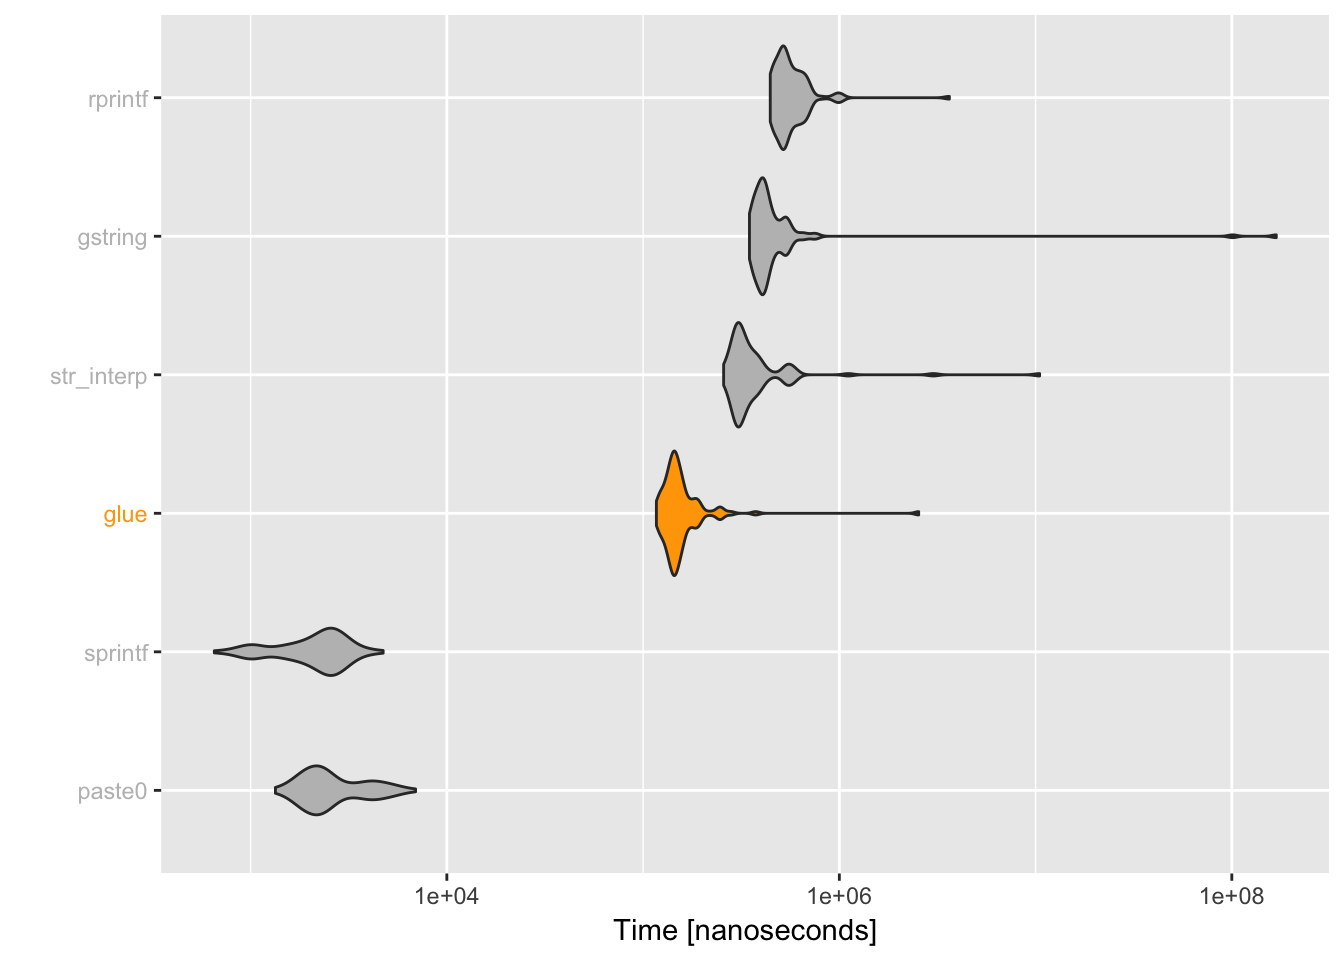
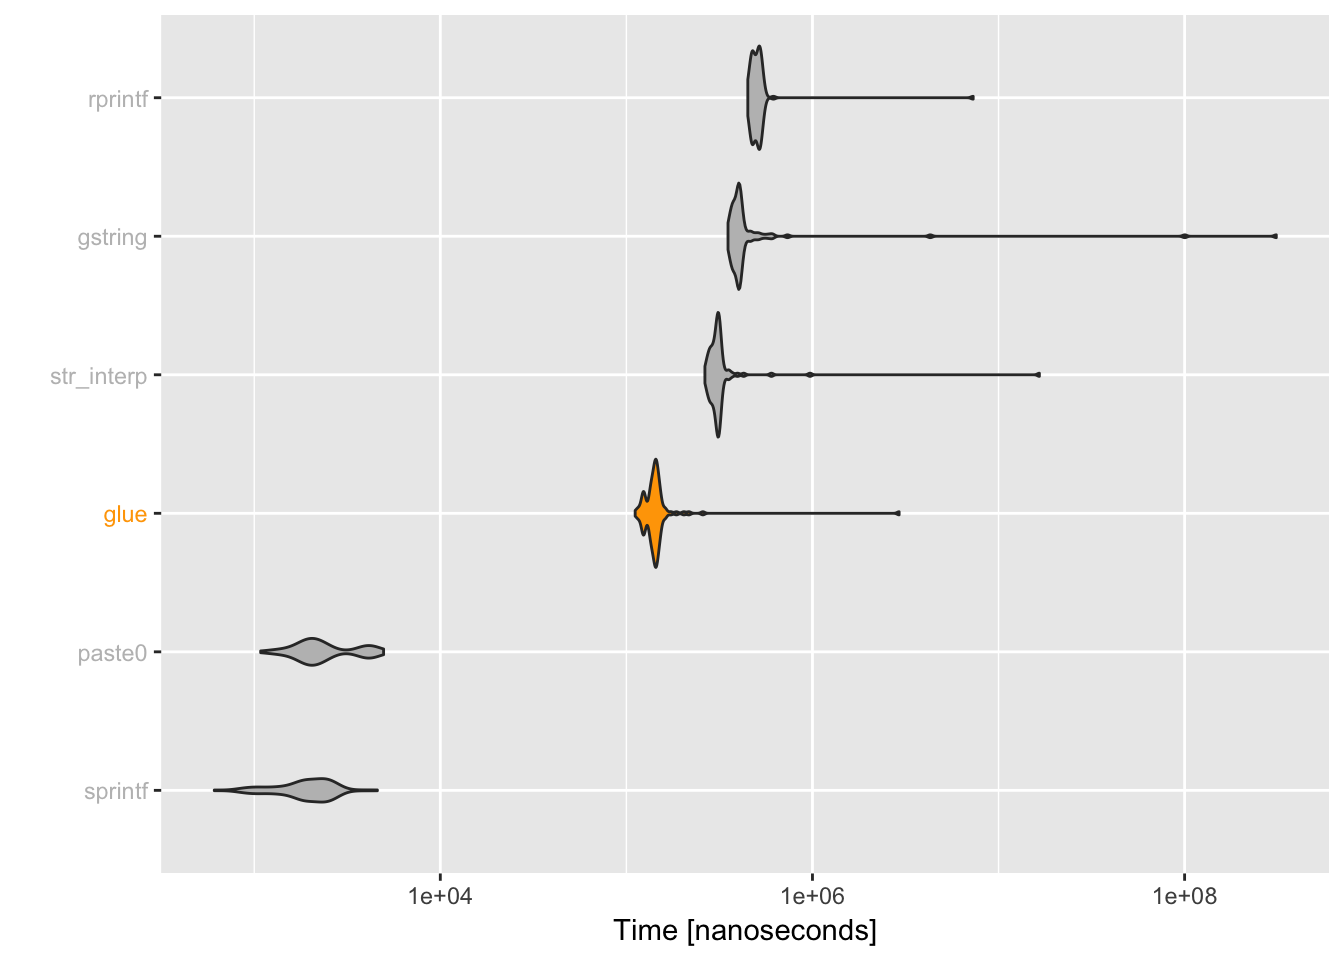
Re-render speed vignette

diff --git a/articles/speed.html b/articles/speed.html
@@ -128,8 +128,17 @@
 <a class="sourceLine" id="cb1-11" data-line-number="11">)</a>
 <a class="sourceLine" id="cb1-12" data-line-number="12"></a>
 <a class="sourceLine" id="cb1-13" data-line-number="13"><span class="kw">print</span>(<span class="dt">unit =</span> <span class="st">"eps"</span>, <span class="dt">order =</span> <span class="st">"median"</span>, <span class="dt">signif =</span> <span class="dv">4</span>, simple)</a>
-<a class="sourceLine" id="cb1-14" data-line-number="14"></a>
-<a class="sourceLine" id="cb1-15" data-line-number="15"><span class="kw">plot_comparison</span>(simple)</a></code></pre></div>
+<a class="sourceLine" id="cb1-14" data-line-number="14"><span class="co">#&gt; Unit: evaluations per second</span></a>
+<a class="sourceLine" id="cb1-15" data-line-number="15"><span class="co">#&gt;        expr       min     lq       mean median     uq     max neval cld</span></a>
+<a class="sourceLine" id="cb1-16" data-line-number="16"><span class="co">#&gt;     rprintf 1.368e+02   1909   1988.042   1993   2104    2225   100 a  </span></a>
+<a class="sourceLine" id="cb1-17" data-line-number="17"><span class="co">#&gt;     gstring 3.216e+00   2410   2398.853   2498   2644    2844   100 a  </span></a>
+<a class="sourceLine" id="cb1-18" data-line-number="18"><span class="co">#&gt;  str_interp 6.033e+01   3150   3208.290   3243   3429    3784   100 a  </span></a>
+<a class="sourceLine" id="cb1-19" data-line-number="19"><span class="co">#&gt;        glue 3.421e+02   6813   7051.048   7041   7442    8968   100 a  </span></a>
+<a class="sourceLine" id="cb1-20" data-line-number="20"><span class="co">#&gt;      paste0 2.017e+05 321200 451723.788 467000 539400  923400   100  b </span></a>
+<a class="sourceLine" id="cb1-21" data-line-number="21"><span class="co">#&gt;     sprintf 2.179e+05 412500 579674.740 512600 640200 1639000   100   c</span></a>
+<a class="sourceLine" id="cb1-22" data-line-number="22"></a>
+<a class="sourceLine" id="cb1-23" data-line-number="23"><span class="kw">plot_comparison</span>(simple)</a></code></pre></div>
+<p><img src="speed_files/figure-html/unnamed-chunk-1-1.png" width="672"></p>
 <p>While <code>glue()</code> is slower than <code>paste0</code>,<code>sprintf()</code> it is twice as fast as <code>str_interp()</code> and <code>gstring()</code>, and on par with <code>rprintf()</code>.</p>
 <p><code>paste0()</code>, <code>sprintf()</code> don’t do string interpolation and will likely always be significantly faster than glue, glue was never meant to be a direct replacement for them.</p>
 <p><code>rprintf()</code> does only variable interpolation, not arbitrary expressions, which was one of the explicit goals of writing glue.</p>
@@ -139,7 +148,7 @@
 <div id="vectorized-performance" class="section level2">
 <h2 class="hasAnchor">
 <a href="#vectorized-performance" class="anchor"></a>Vectorized performance</h2>
-<p>Taking advantage of glue’s vectorization is the best way to avoid performance. For instance the vectorized form of the previous benchmark is able to generate 100,000 strings in only 22ms with performance much closer to that of <code>paste0()</code> and <code>sprintf()</code>. NB. <code>str_interp()</code> does not support vectorization, so were removed.</p>
+<p>Taking advantage of glue’s vectorization is the best way to avoid performance. For instance the vectorized form of the previous benchmark is able to generate 100,000 strings in only 22ms with performance much closer to that of <code>paste0()</code> and <code>sprintf()</code>. NB. <code>str_interp()</code> does not support vectorization, so was removed.</p>
 <div class="sourceCode" id="cb2"><pre class="sourceCode r"><code class="sourceCode r"><a class="sourceLine" id="cb2-1" data-line-number="1">bar &lt;-<span class="st"> </span><span class="kw">rep</span>(<span class="st">"bar"</span>, <span class="fl">1e5</span>)</a>
 <a class="sourceLine" id="cb2-2" data-line-number="2"></a>
 <a class="sourceLine" id="cb2-3" data-line-number="3">vectorized &lt;-</a>
@@ -152,8 +161,16 @@
 <a class="sourceLine" id="cb2-10" data-line-number="10">)</a>
 <a class="sourceLine" id="cb2-11" data-line-number="11"></a>
 <a class="sourceLine" id="cb2-12" data-line-number="12"><span class="kw">print</span>(<span class="dt">unit =</span> <span class="st">"ms"</span>, <span class="dt">order =</span> <span class="st">"median"</span>, <span class="dt">signif =</span> <span class="dv">4</span>, vectorized)</a>
-<a class="sourceLine" id="cb2-13" data-line-number="13"></a>
-<a class="sourceLine" id="cb2-14" data-line-number="14"><span class="kw">plot_comparison</span>(vectorized, <span class="dt">log =</span> <span class="ot">FALSE</span>)</a></code></pre></div>
+<a class="sourceLine" id="cb2-13" data-line-number="13"><span class="co">#&gt; Unit: milliseconds</span></a>
+<a class="sourceLine" id="cb2-14" data-line-number="14"><span class="co">#&gt;     expr   min    lq     mean median    uq    max neval  cld</span></a>
+<a class="sourceLine" id="cb2-15" data-line-number="15"><span class="co">#&gt;   paste0 12.63 13.16 14.02252  13.46 14.04  24.50   100 a   </span></a>
+<a class="sourceLine" id="cb2-16" data-line-number="16"><span class="co">#&gt;     glue 14.02 14.67 16.62991  15.51 18.68  25.26   100  b  </span></a>
+<a class="sourceLine" id="cb2-17" data-line-number="17"><span class="co">#&gt;  sprintf 15.94 16.25 17.01883  16.39 16.77  21.73   100  b  </span></a>
+<a class="sourceLine" id="cb2-18" data-line-number="18"><span class="co">#&gt;  gstring 26.07 26.64 28.62167  27.24 30.85  38.65   100   c </span></a>
+<a class="sourceLine" id="cb2-19" data-line-number="19"><span class="co">#&gt;  rprintf 59.16 60.69 65.15654  63.72 66.27 183.10   100    d</span></a>
+<a class="sourceLine" id="cb2-20" data-line-number="20"></a>
+<a class="sourceLine" id="cb2-21" data-line-number="21"><span class="kw">plot_comparison</span>(vectorized, <span class="dt">log =</span> <span class="ot">FALSE</span>)</a></code></pre></div>
+<p><img src="speed_files/figure-html/unnamed-chunk-2-1.png" width="672"></p>
 </div>
 <div class="footnotes">
 <hr>

diff --git a/articles/transformers.html b/articles/transformers.html
@@ -130,20 +130,23 @@
 <a href="#shell-quoting-transformer" class="anchor"></a>Shell quoting transformer</h3>
 <p>A transformer which automatically quotes variables for use in shell commands, e.g. via <code>system()</code> or <code>system2()</code>.</p>
 <div class="sourceCode" id="cb2"><pre class="sourceCode r"><code class="sourceCode r"><a class="sourceLine" id="cb2-1" data-line-number="1">shell_transformer &lt;-<span class="st"> </span><span class="cf">function</span>(<span class="dt">type =</span> <span class="kw">c</span>(<span class="st">"sh"</span>, <span class="st">"csh"</span>, <span class="st">"cmd"</span>, <span class="st">"cmd2"</span>)) {</a>
-<a class="sourceLine" id="cb2-2" data-line-number="2">  <span class="cf">function</span>(code, envir) <span class="kw">shQuote</span>(glue<span class="op">::</span><span class="kw"><a href="http://www.rdocumentation.org/packages/glue/topics/evaluate">evaluate</a></span>(code, envir), type)</a>
-<a class="sourceLine" id="cb2-3" data-line-number="3">}</a>
-<a class="sourceLine" id="cb2-4" data-line-number="4"></a>
-<a class="sourceLine" id="cb2-5" data-line-number="5">glue_sh &lt;-<span class="st"> </span><span class="cf">function</span>(..., <span class="dt">.envir =</span> <span class="kw">parent.frame</span>(), <span class="dt">.type =</span> <span class="kw">c</span>(<span class="st">"sh"</span>, <span class="st">"csh"</span>, <span class="st">"cmd"</span>, <span class="st">"cmd2"</span>)) {</a>
-<a class="sourceLine" id="cb2-6" data-line-number="6">  <span class="kw">glue</span>(..., <span class="dt">.envir =</span> .envir, <span class="dt">.transformer =</span> <span class="kw">shell_transformer</span>(.type))</a>
-<a class="sourceLine" id="cb2-7" data-line-number="7">}</a>
-<a class="sourceLine" id="cb2-8" data-line-number="8"></a>
-<a class="sourceLine" id="cb2-9" data-line-number="9">filename &lt;-<span class="st"> "test"</span></a>
-<a class="sourceLine" id="cb2-10" data-line-number="10"><span class="kw">writeLines</span>(<span class="dt">con =</span> filename, <span class="st">"hello!"</span>)</a>
+<a class="sourceLine" id="cb2-2" data-line-number="2">  type &lt;-<span class="st"> </span><span class="kw">match.arg</span>(type)</a>
+<a class="sourceLine" id="cb2-3" data-line-number="3">  <span class="cf">function</span>(code, envir) <span class="kw">shQuote</span>(glue<span class="op">::</span><span class="kw"><a href="http://www.rdocumentation.org/packages/glue/topics/evaluate">evaluate</a></span>(code, envir), type)</a>
+<a class="sourceLine" id="cb2-4" data-line-number="4">}</a>
+<a class="sourceLine" id="cb2-5" data-line-number="5"></a>
+<a class="sourceLine" id="cb2-6" data-line-number="6">glue_sh &lt;-<span class="st"> </span><span class="cf">function</span>(..., <span class="dt">.envir =</span> <span class="kw">parent.frame</span>(), <span class="dt">.type =</span> <span class="kw">c</span>(<span class="st">"sh"</span>, <span class="st">"csh"</span>, <span class="st">"cmd"</span>, <span class="st">"cmd2"</span>)) {</a>
+<a class="sourceLine" id="cb2-7" data-line-number="7">  .type &lt;-<span class="st"> </span><span class="kw">match.arg</span>(.type)</a>
+<a class="sourceLine" id="cb2-8" data-line-number="8">  <span class="kw">glue</span>(..., <span class="dt">.envir =</span> .envir, <span class="dt">.transformer =</span> <span class="kw">shell_transformer</span>(.type))</a>
+<a class="sourceLine" id="cb2-9" data-line-number="9"></a>
+<a class="sourceLine" id="cb2-10" data-line-number="10">}</a>
 <a class="sourceLine" id="cb2-11" data-line-number="11"></a>
-<a class="sourceLine" id="cb2-12" data-line-number="12">command &lt;-<span class="st"> </span><span class="kw">glue_sh</span>(<span class="st">"cat {filename}"</span>)</a>
-<a class="sourceLine" id="cb2-13" data-line-number="13">command</a>
-<a class="sourceLine" id="cb2-14" data-line-number="14"><span class="co">#&gt; cat 'test'</span></a>
-<a class="sourceLine" id="cb2-15" data-line-number="15"><span class="kw">system</span>(command)</a></code></pre></div>
+<a class="sourceLine" id="cb2-12" data-line-number="12">filename &lt;-<span class="st"> "test"</span></a>
+<a class="sourceLine" id="cb2-13" data-line-number="13"><span class="kw">writeLines</span>(<span class="dt">con =</span> filename, <span class="st">"hello!"</span>)</a>
+<a class="sourceLine" id="cb2-14" data-line-number="14"></a>
+<a class="sourceLine" id="cb2-15" data-line-number="15">command &lt;-<span class="st"> </span><span class="kw">glue_sh</span>(<span class="st">"cat {filename}"</span>)</a>
+<a class="sourceLine" id="cb2-16" data-line-number="16">command</a>
+<a class="sourceLine" id="cb2-17" data-line-number="17"><span class="co">#&gt; cat 'test'</span></a>
+<a class="sourceLine" id="cb2-18" data-line-number="18"><span class="kw">system</span>(command)</a></code></pre></div>
 </div>
 <div id="emoji-transformer" class="section level3">
 <h3 class="hasAnchor">
